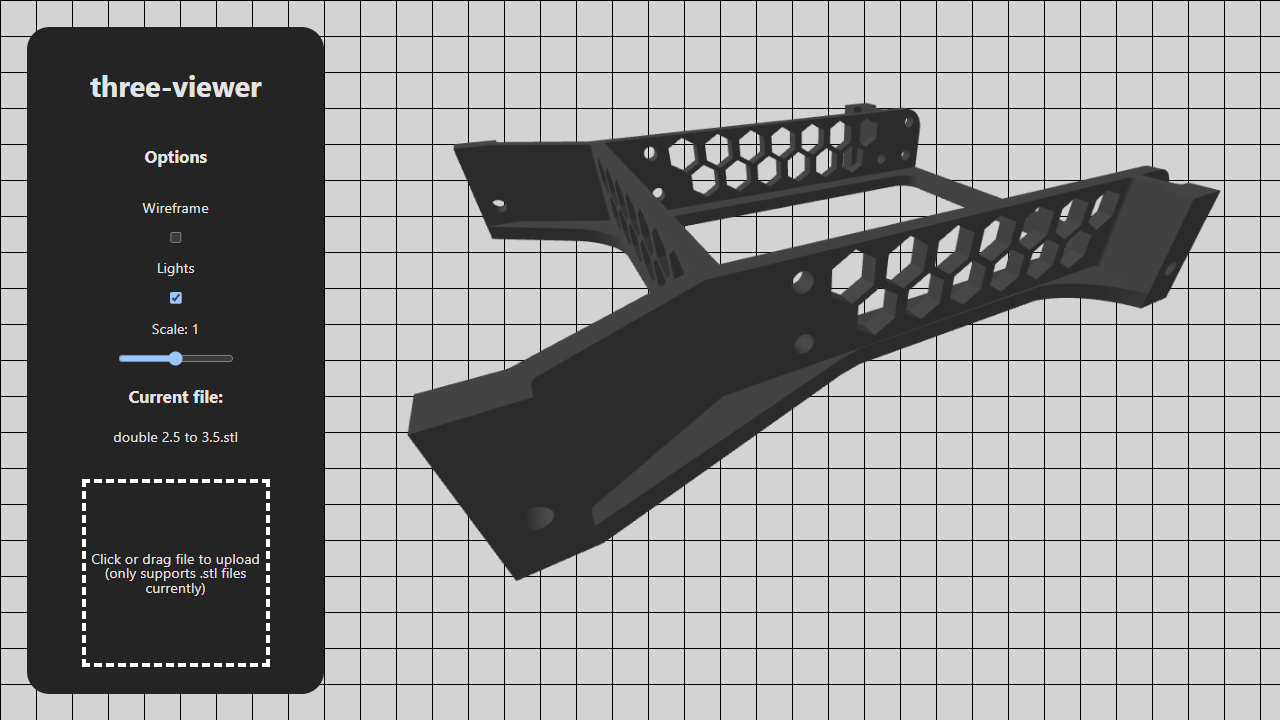
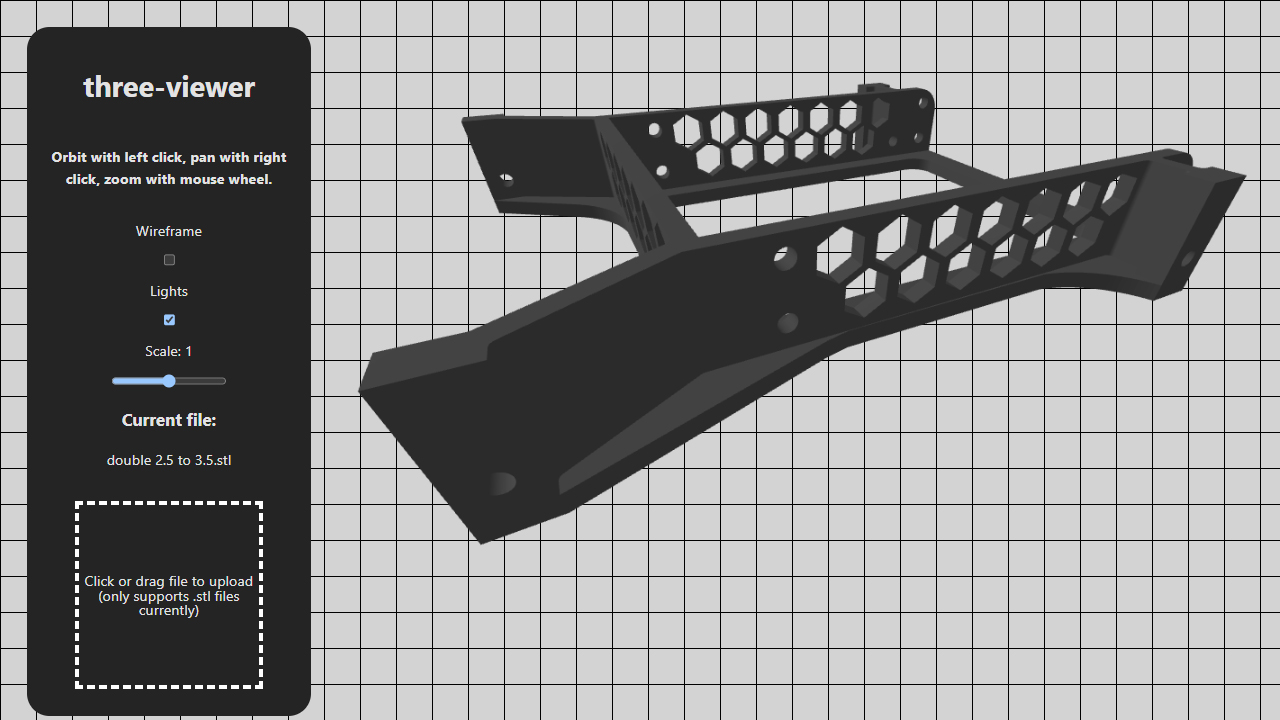
added camera control instructions, updated thumbnail

Changed region(s): [[0.0, 0.0306, 0.9688, 1.0], [0.5938, 0.4278, 0.625, 0.4583]]

diff --git a/src/components/Sidebar.jsx b/src/components/Sidebar.jsx
@@ -46,7 +46,9 @@ function Sidebar() {
   return (
     <StyleContainer>
       <h1>three-viewer</h1>
-      <h3>Options</h3>
+      <h4>
+        Orbit with left click, pan with right click, zoom with mouse wheel.
+      </h4>
       <p>Wireframe</p>
       <input
         type="checkbox"
